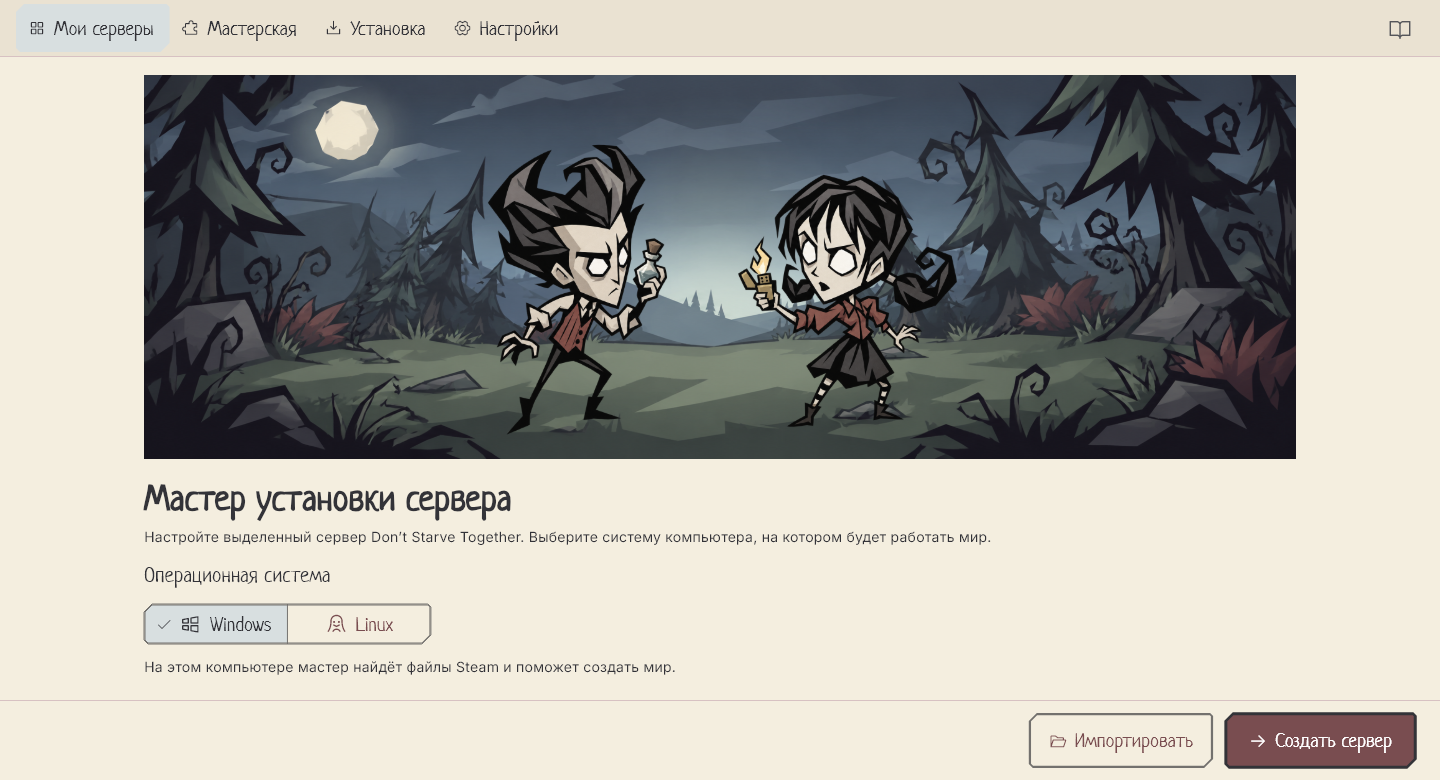
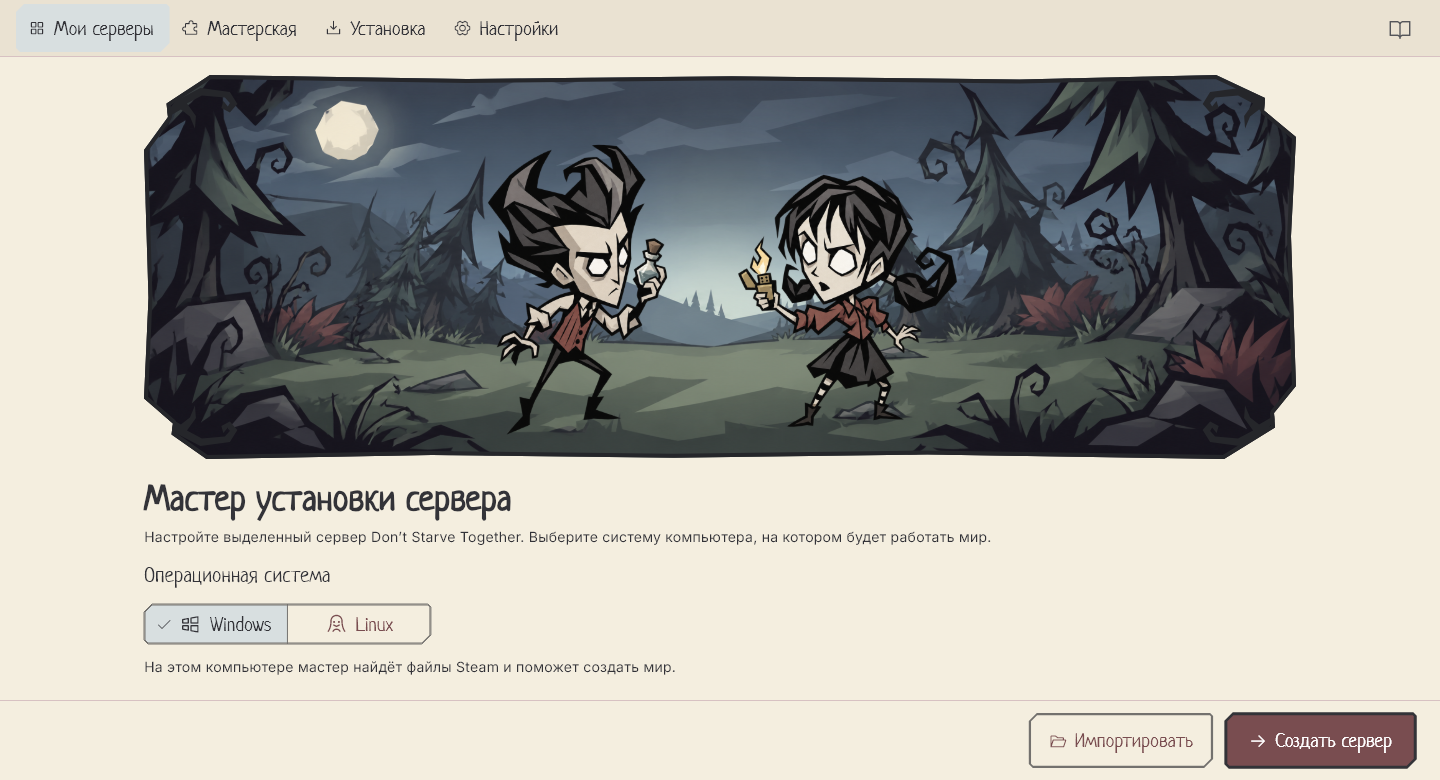
Frame both panoramic backgrounds and export reusable alpha mask [no-launch]

diff --git a/lib/core/ink_frame.dart b/lib/core/ink_frame.dart
@@ -1,0 +1,109 @@
+import 'dart:math' as math;
+
+import 'package:flutter/material.dart';
+
+/// Keeps the painted edge and the transparent cutout aligned at any size.
+class InkFrame extends StatelessWidget {
+  const InkFrame({required this.child, super.key});
+  final Widget child;
+
+  @override
+  Widget build(BuildContext context) => ClipPath(
+    clipper: const InkFrameClipper(),
+    child: CustomPaint(foregroundPainter: const _InkEdges(), child: child),
+  );
+}
+
+class InkFrameClipper extends CustomClipper<Path> {
+  const InkFrameClipper();
+
+  @override
+  Path getClip(Size size) {
+    final w = size.width, h = size.height;
+    final c = math.min(w / 16, h * .13);
+    return Path()
+      ..moveTo(0, c * 1.5)
+      ..lineTo(c * .48, c * .84)
+      ..lineTo(c * .45, c * .57)
+      ..lineTo(c * 1.32, 0)
+      ..lineTo(w * .28, c * .08)
+      ..lineTo(w * .51, c * .025)
+      ..lineTo(w * .76, c * .09)
+      ..lineTo(w - c * 1.6, 0)
+      ..lineTo(w - c * .62, c * .46)
+      ..lineTo(w - c * .64, c * .71)
+      ..lineTo(w, c * 1.24)
+      ..lineTo(w - c * .10, h * .42)
+      ..lineTo(w, h - c * 1.46)
+      ..lineTo(w - c * .44, h - c * .92)
+      ..lineTo(w - c * .42, h - c * .63)
+      ..lineTo(w - c * 1.44, h)
+      ..lineTo(w * .68, h - c * .09)
+      ..lineTo(w * .46, h - c * .025)
+      ..lineTo(w * .25, h - c * .08)
+      ..lineTo(c * 1.25, h)
+      ..lineTo(c * .55, h - c * .49)
+      ..lineTo(c * .58, h - c * .71)
+      ..lineTo(0, h - c * 1.21)
+      ..lineTo(c * .09, h * .58)
+      ..close();
+  }
+
+  @override
+  bool shouldReclip(InkFrameClipper old) => false;
+}
+
+class _InkEdges extends CustomPainter {
+  const _InkEdges();
+
+  @override
+  void paint(Canvas canvas, Size size) {
+    final edge = const InkFrameClipper().getClip(size);
+    final unit = math.min(size.width / 16, size.height * .13);
+    final ink = Paint()..color = const Color(0xff25262a);
+    canvas.drawPath(
+      edge,
+      Paint()
+        ..color = ink.color
+        ..style = PaintingStyle.stroke
+        ..strokeWidth = (unit * .16).clamp(2, 9).toDouble()
+        ..strokeJoin = StrokeJoin.bevel,
+    );
+
+    // A hooked twig grows in from each corner. Work in corner-local coordinates.
+    final twig = Path()
+      ..moveTo(.27, .96)
+      ..lineTo(.65, .51)
+      ..lineTo(1.13, .26)
+      ..lineTo(1.72, .34)
+      ..lineTo(1.87, .58)
+      ..lineTo(1.72, .75)
+      ..lineTo(1.55, .66)
+      ..lineTo(1.59, .52)
+      ..lineTo(1.68, .63)
+      ..lineTo(1.72, .56)
+      ..lineTo(1.62, .45)
+      ..lineTo(1.16, .41)
+      ..lineTo(.86, .57)
+      ..lineTo(1.04, .82)
+      ..lineTo(1.02, 1.07)
+      ..lineTo(.92, .83)
+      ..lineTo(.74, .69)
+      ..close();
+    for (final (x, y, sx, sy) in [
+      (0.0, 0.0, 1.0, 1.0),
+      (size.width, 0.0, -1.0, 1.0),
+      (0.0, size.height, 1.0, -1.0),
+      (size.width, size.height, -1.0, -1.0),
+    ]) {
+      canvas.save();
+      canvas.translate(x, y);
+      canvas.scale(unit * sx, unit * sy);
+      canvas.drawPath(twig, ink);
+      canvas.restore();
+    }
+  }
+
+  @override
+  bool shouldRepaint(_InkEdges old) => false;
+}

diff --git a/lib/features/dashboard.dart b/lib/features/dashboard.dart
@@ -3,6 +3,7 @@ import 'package:go_router/go_router.dart';
 import 'package:provider/provider.dart';
 
 import '../core/icons.dart';
+import '../core/ink_frame.dart';
 import '../app/controller.dart';
 import '../app/strings.dart';
 import '../core/widgets.dart';
@@ -48,27 +49,29 @@ class DashboardScreen extends StatelessWidget {
                       ExcludeSemantics(
                         child: AspectRatio(
                           aspectRatio: 3,
-                          child: Stack(
-                            fit: StackFit.expand,
-                            children: [
-                              Image.asset(
-                                'assets/images/expedition.png',
-                                fit: BoxFit.cover,
-                              ),
-                              const FractionallySizedBox(
-                                alignment: Alignment(.08, .65),
-                                heightFactor: .83,
-                                child: Row(
-                                  mainAxisAlignment: MainAxisAlignment.center,
-                                  children: [
-                                    _Survivor('wilson'),
-                                    SizedBox(width: 16),
-                                    _Survivor('willow'),
-                                  ],
+                          child: InkFrame(
+                            child: Stack(
+                              fit: StackFit.expand,
+                              children: [
+                                Image.asset(
+                                  'assets/images/expedition.png',
+                                  fit: BoxFit.cover,
                                 ),
-                              ),
-                              const WoodlandAtmosphere(),
-                            ],
+                                const FractionallySizedBox(
+                                  alignment: Alignment(.08, .65),
+                                  heightFactor: .83,
+                                  child: Row(
+                                    mainAxisAlignment: MainAxisAlignment.center,
+                                    children: [
+                                      _Survivor('wilson'),
+                                      SizedBox(width: 16),
+                                      _Survivor('willow'),
+                                    ],
+                                  ),
+                                ),
+                                const WoodlandAtmosphere(),
+                              ],
+                            ),
                           ),
                         ),
                       ),

diff --git a/test/visual/render_screenshots.dart b/test/visual/render_screenshots.dart
@@ -5,6 +5,7 @@ import 'package:flutter/services.dart';
 import 'package:flutter_test/flutter_test.dart';
 import 'package:shared_preferences/shared_preferences.dart';
 import 'package:dst_server_launcher/app/app.dart';
+import 'package:dst_server_launcher/core/ink_frame.dart';
 import 'package:dst_server_launcher/app/controller.dart';
 import 'package:dst_server_launcher/data/local_repository.dart';
 
@@ -85,5 +86,46 @@ void main() {
       tester.view.resetPhysicalSize();
       tester.view.resetDevicePixelRatio();
     });
+  }
+  const exportDir = String.fromEnvironment('ART_EXPORT_DIR');
+  if (exportDir.isNotEmpty) {
+    for (final name in ['mask', 'expedition', 'workshop']) {
+      testWidgets('Export transparent frame layer for $name', (tester) async {
+        tester.view.devicePixelRatio = 1;
+        tester.view.physicalSize = const Size(2172, 724);
+        addTearDown(tester.view.resetPhysicalSize);
+        addTearDown(tester.view.resetDevicePixelRatio);
+        final key = GlobalKey();
+        await tester.pumpWidget(
+          RepaintBoundary(
+            key: key,
+            child: name == 'mask'
+                ? const ClipPath(
+                    clipper: InkFrameClipper(),
+                    child: ColoredBox(color: Colors.white),
+                  )
+                : InkFrame(
+                    child: Image.asset(
+                      'assets/images/$name.png',
+                      fit: BoxFit.fill,
+                    ),
+                  ),
+          ),
+        );
+        if (name != 'mask') {
+          await tester.runAsync(
+            () => precacheImage(
+              AssetImage('assets/images/$name.png'),
+              key.currentContext!,
+            ),
+          );
+        }
+        await tester.pumpAndSettle();
+        await expectLater(
+          find.byKey(key),
+          matchesGoldenFile(Uri.file('$exportDir/$name.png')),
+        );
+      });
+    }
   }
 }

diff --git a/lib/features/workshop.dart b/lib/features/workshop.dart
@@ -2,6 +2,7 @@ import 'package:flutter/material.dart';
 import 'package:provider/provider.dart';
 
 import '../core/icons.dart';
+import '../core/ink_frame.dart';
 import '../app/controller.dart';
 import '../app/strings.dart';
 import '../core/widgets.dart';
@@ -15,13 +16,19 @@ class WorkshopScreen extends StatelessWidget {
     child: Column(
       crossAxisAlignment: CrossAxisAlignment.start,
       children: [
-        SizedBox(
-          height: 164,
-          width: double.infinity,
-          child: Image.asset(
-            'assets/images/workshop.png',
-            fit: BoxFit.cover,
-            excludeFromSemantics: true,
+        Center(
+          child: ConstrainedBox(
+            constraints: const BoxConstraints(maxWidth: 1152),
+            child: AspectRatio(
+              aspectRatio: 3,
+              child: InkFrame(
+                child: Image.asset(
+                  'assets/images/workshop.png',
+                  fit: BoxFit.cover,
+                  excludeFromSemantics: true,
+                ),
+              ),
+            ),
           ),
         ),
         const SizedBox(height: 16),

diff --git a/docs/design.md b/docs/design.md
@@ -9,3 +9,5 @@ The wizard keeps Back and Next in a fixed footer and scrolls the form separately
 Test-rendered welcome and wizard screenshots are stored in `docs/screenshots/`.
 
 The forest plays a brief mist and firefly animation on entry and pointer re-entry. Button labels respond to hover and press while the hit target stays fixed. Reduced motion keeps the scene still and preserves immediate color feedback.
+
+Both panoramas share a responsive alpha mask with clipped corners, an irregular ink edge and hooked branches. The illustration export can render the plain mask and both framed backgrounds at 2172 × 724 from the same Flutter geometry.
